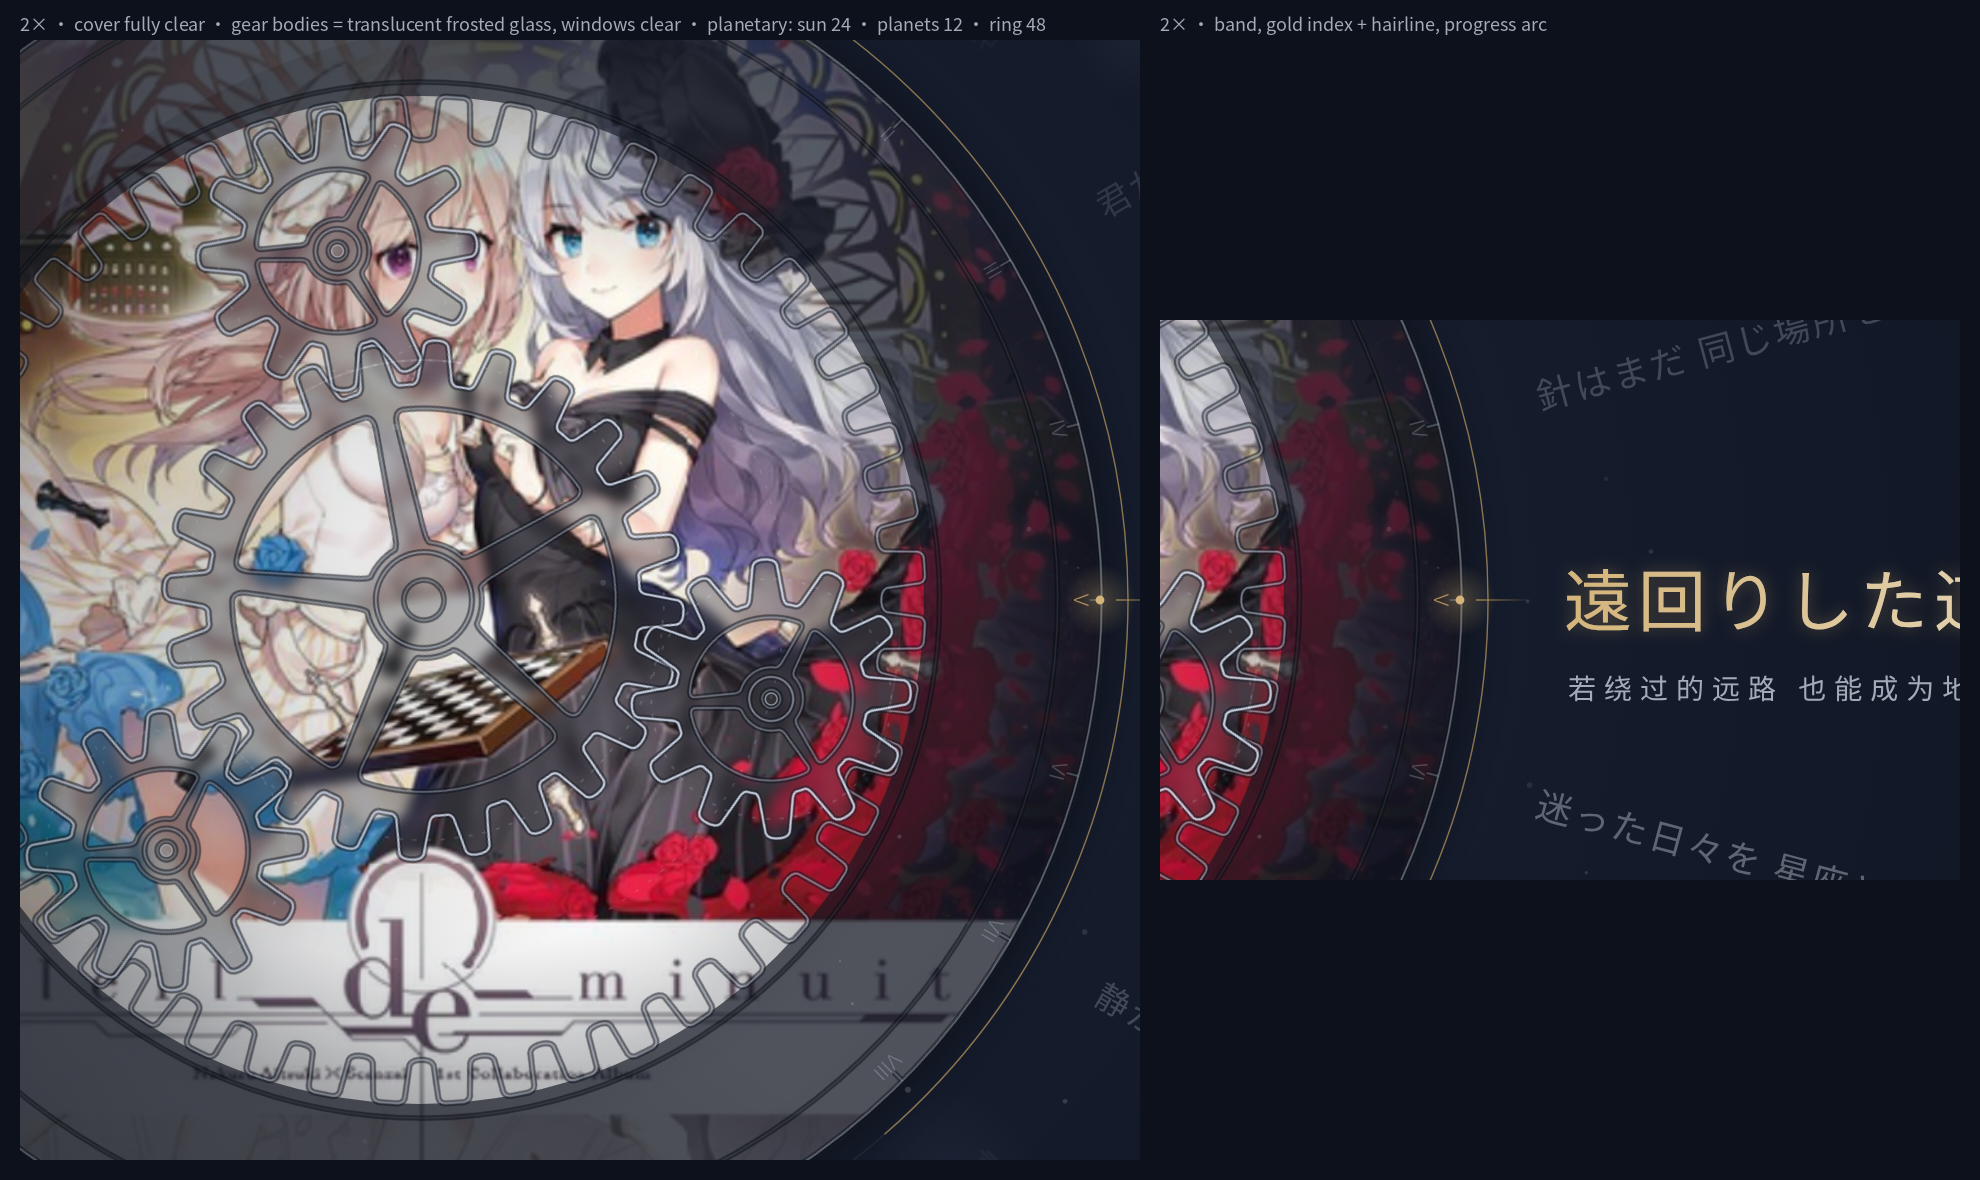
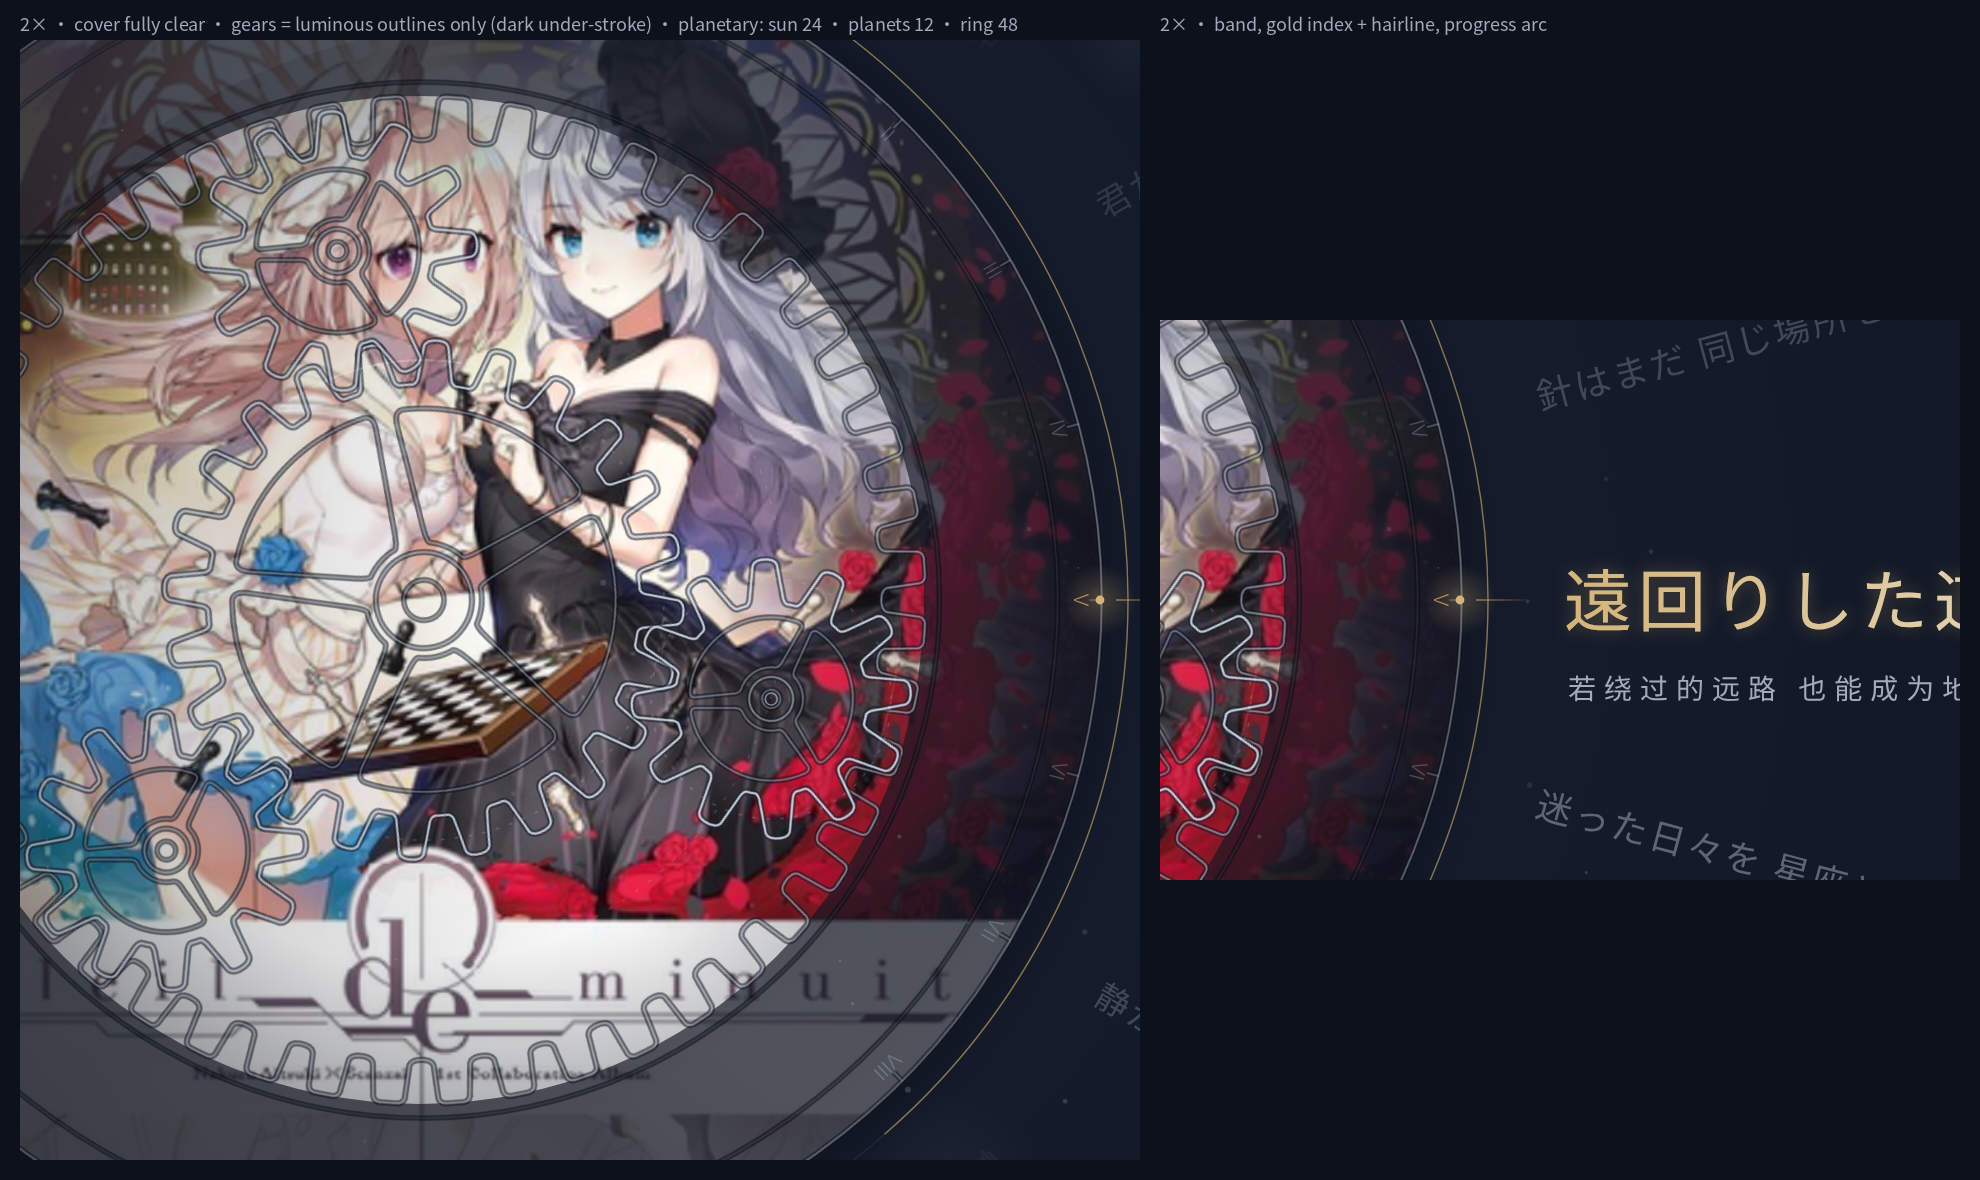
lyric-dial 7b: gears as outlines only (no fill, no gear shadows), cover fully clear

diff --git a/ryn-lyric-dial/concept-7b/index.html b/ryn-lyric-dial/concept-7b/index.html
@@ -21,7 +21,7 @@
    A true planetary set: the engraved Roman-numeral band (6b style) is the ring gear (48 inner teeth),
    three planets (12) mesh with it and with the central sun (24). Carrier = a dotted hairline only; no arms, no bridges.
    Wheels are luminous hairlines (with a dark under-stroke so they read on bright art);
-   the cover is fully clear; the wheels' solid parts are translucent frosted glass, their windows fully clear. Ring rotation = lyric arc. */
+   the cover is fully clear; the wheels are luminous outlines only (no fill). Ring rotation = lyric arc. */
 const TAU = Math.PI * 2, CX = 200, CY = 400;
 const MI = 10, ZRI = 48, RRI = MI * ZRI / 2;          // ring internal: pitch R 240
 const BAND_I = RRI + 1.2 * MI, BAND_O = 340;          // engraved band (6b style) between the inner-teeth root and Ø 680
@@ -92,9 +92,6 @@ function bake(cover) {
     // the engraved band (unchanged): darker so the rim reads as one part
     g.fillStyle = 'rgba(16,21,34,.66)'; g.beginPath(); g.arc(R_COV, R_COV, R_COV, 0, TAU); g.arc(R_COV, R_COV, RRI + 1.2 * MI, 0, TAU, true); g.fill();
     B.veil = c; }
-  { // frosted glass for the gears' solid parts: the cover, blurred, with a ~20% cool-dark tint and a faint sheen
-    const [c, g] = mk(); g.filter = 'blur(6px) saturate(.9) brightness(.9)'; if (cover) g.drawImage(cover, -10, -10, S + 20, S + 20); g.filter = 'none';
-    g.fillStyle = 'rgba(12,17,28,.2)'; g.fillRect(0, 0, S, S); g.fillStyle = `rgba(${INK},.05)`; g.fillRect(0, 0, S, S); B.frost = c; }
   SUN.def = wheelDef(SUN); B.sun = bakeWheel(SUN.def); PLANET.def = wheelDef(PLANET); B.planet = bakeWheel(PLANET.def);
   { // ring = engraved band (thin concentric rings + one quiet tick per lyric step) with the drive teeth on its inner edge
     const inner = toPath(teeth(ZRI, RRI, MI, true)), ticks = new Path2D();
@@ -131,16 +128,9 @@ boot(({ctx, cover}, t, s) => {
 
   for (const [bx, by, br] of BOKEH) { const g = ctx.createRadialGradient(bx - px * 2, by - py * 2, 0, bx - px * 2, by - py * 2, br); g.addColorStop(0, 'rgba(170,190,230,.05)'); g.addColorStop(1, 'rgba(170,190,230,0)'); ctx.fillStyle = g; ctx.beginPath(); ctx.arc(bx - px * 2, by - py * 2, br, 0, TAU); ctx.fill(); }
 
-  // cover clear; gear bodies are frosted glass (windows stay fully clear)
+  // cover fully clear; gears are outlines only (no fill, no tint, no blur)
   ctx.save(); ctx.shadowColor = 'rgba(0,0,0,.55)'; ctx.shadowBlur = 60; ctx.fillStyle = '#0d121c'; ctx.beginPath(); ctx.arc(CX, CY, R_COV, 0, TAU); ctx.fill(); ctx.restore();
   ctx.drawImage(B.veil, CX - R_COV, CY - R_COV, 2 * R_COV, 2 * R_COV);
-  { const S = 2 * R_COV, mc = B.mask; if (mc.width !== Math.round(S * dpr)) mc.width = mc.height = Math.round(S * dpr);
-    const g = mc.getContext('2d'); g.setTransform(1, 0, 0, 1, 0, 0); g.clearRect(0, 0, mc.width, mc.height); g.setTransform(dpr, 0, 0, dpr, 0, 0);
-    g.fillStyle = '#fff';
-    for (const w of W) { g.save(); g.translate(w.x - CX + R_COV + px * w.d, w.y - CY + R_COV + py * w.d); g.rotate(w.th); g.fill(w.def.body);
-      g.globalCompositeOperation = 'destination-out'; for (const p of w.def.wins) g.fill(p); g.globalCompositeOperation = 'source-over'; g.restore(); }
-    g.globalCompositeOperation = 'source-in'; g.setTransform(1, 0, 0, 1, 0, 0); g.drawImage(B.frost, 0, 0, mc.width, mc.height); g.globalCompositeOperation = 'source-over';
-    ctx.drawImage(mc, CX - R_COV, CY - R_COV, S, S); }
   { ctx.save(); ctx.beginPath(); ctx.arc(CX, CY, R_COV, 0, TAU); ctx.clip(); ctx.globalCompositeOperation = 'screen';
     const u = mod(t / 11, 1), x0 = CX - 560 + u * 1120, sw = ctx.createLinearGradient(x0 - 150, CY - 320, x0 + 150, CY + 320);
     sw.addColorStop(0, 'rgba(200,214,240,0)'); sw.addColorStop(.5, 'rgba(200,214,240,.06)'); sw.addColorStop(1, 'rgba(200,214,240,0)');
@@ -148,8 +138,7 @@ boot(({ctx, cover}, t, s) => {
 
   // shadows, then the wheels
   const O = [3, 5];
-  put(ctx, B.ringSh, CX + O[0] * .5, CY + O[1] * .5, thR, .14);
-  for (const w of W) put(ctx, B[w.tex + 'Sh'], w.x + O[0] * w.d, w.y + O[1] * w.d, w.th, .14);
+  put(ctx, B.ringSh, CX + O[0] * .5, CY + O[1] * .5, thR, .06);   // barely-there band shadow; sun/planets cast none
   put(ctx, B.ring, CX + px * dep.ring, CY + py * dep.ring, thR);
   // Roman numerals engraved on the band, riding with the ring (24 slots = two turns of I–XII), current one gold
   ctx.font = `300 10px ${FONT_UI}`; ctx.textAlign = 'center'; ctx.textBaseline = 'middle';

diff --git a/ryn-lyric-dial/gallery.html b/ryn-lyric-dial/gallery.html
@@ -17,5 +17,5 @@ a.card img{display:block;width:100%;aspect-ratio:16/10;object-fit:cover}
 <a class="card" href="concept-3/index.html"><img src="shots/3.png"><div class="meta"><div class="n">CONCEPT 03</div><div class="t">仪表 · Gauge</div><div class="d">底部半圆模拟表盘，歌词沿弧排成刻度标签，指针带回弹扫向当前行，上方大字显示。</div><div class="g">Godot: 刻度烘焙一次（静态 _draw），每帧只重画指针 + 两行大字；Tween TRANS_BACK。</div></div></a>
 <a class="card" href="concept-4/index.html"><img src="shots/4.png"><div class="meta"><div class="n">CONCEPT 04</div><div class="t">八音盒滚筒 · Music-box Drum</div><div class="d">横置的透视滚筒印着歌词，当前行在正面平展，其余行随曲面压缩远去；左侧封面铭牌。</div><div class="g">Godot: draw_set_transform(scale=(sx,cosφ)) 逐行绘制 + 圆柱明暗 shader 或渐变纹理。</div></div></a>
 <a class="card" href="concept-5/index.html"><img src="shots/5.png"><div class="meta"><div class="n">CONCEPT 05</div><div class="t">星轨 · Orbit</div><div class="d">封面为中心天体，歌词沿倾斜椭圆轨道运行，抵达近日点时放大落下；外圈波形环随音频起伏。</div><div class="g">Godot: 轨道点参数方程 + z 排序（后半先画）；波形环用 AudioEffectSpectrumAnalyzer + draw_multiline。</div></div></a>
-<a class="card" href="concept-7b/index.html"><img src="shots/7b.png"><div class="meta"><div class="n">CONCEPT 06 · GEAR (7b)</div><div class="t">光轮 · 行星齿轮 Luminous Planetary</div><div class="d">大表盘偏左、部分出画。外圈是 6b 的罗马数字刻度环（细同心刻线、I–XII 随歌曲转动，当前数字金色），其内缘的 48 个粗齿就是行星齿轮组的齿圈。中心太阳轮（24 齿）压在正立的封面上，三只行星轮（12 齿）同时与太阳轮和齿圈啮合；行星架只有一条穿过行星轮中心的点状细线。封面完整清晰、接近原亮度；齿轮实体部分（轮缘、辐条、轮毂）为半透明磨砂玻璃，窗口完全通透，轮廓为带暗描边的发光细线。光线安静，无闪光；右侧歌词沿同心弧，当前行卡拉OK式由金到白点亮。</div><div class="g">Godot: 齿圈/太阳轮/行星轮各一张细线贴图 + 阴影贴图，按 Willis 公式算角度，每帧只改 rotation 和行星位置；磨砂齿轮用 SubViewport 遮罩 + 封面模糊 shader 混合。<a href="shots/7b-detail.png" style="color:#b8955a">2× 细节图</a> · <a href="shots/7b-vs-ref.png" style="color:#b8955a">与参考对比</a></div></div></a> · <a href="shots/7b-vs-ref.png" style="color:#b8955a">与参考对比</a></div></div></a>
+<a class="card" href="concept-7b/index.html"><img src="shots/7b.png"><div class="meta"><div class="n">CONCEPT 06 · GEAR (7b)</div><div class="t">光轮 · 行星齿轮 Luminous Planetary</div><div class="d">大表盘偏左、部分出画。外圈是 6b 的罗马数字刻度环（细同心刻线、I–XII 随歌曲转动，当前数字金色），其内缘的 48 个粗齿就是行星齿轮组的齿圈。中心太阳轮（24 齿）压在正立的封面上，三只行星轮（12 齿）同时与太阳轮和齿圈啮合；行星架只有一条穿过行星轮中心的点状细线。封面完整清晰、接近原亮度；齿轮只保留带暗描边的发光细线轮廓，没有任何填充。光线安静，无闪光；右侧歌词沿同心弧，当前行卡拉OK式由金到白点亮。</div><div class="g">Godot: 齿圈/太阳轮/行星轮各一张细线贴图 + 阴影贴图，按 Willis 公式算角度，每帧只改 rotation 和行星位置；封面只需圆形遮罩。<a href="shots/7b-detail.png" style="color:#b8955a">2× 细节图</a> · <a href="shots/7b-vs-ref.png" style="color:#b8955a">与参考对比</a></div></div></a> · <a href="shots/7b-vs-ref.png" style="color:#b8955a">与参考对比</a></div></div></a>
 </div></body></html>

diff --git a/ryn-lyric-dial/README.md b/ryn-lyric-dial/README.md
@@ -16,7 +16,7 @@ In Godot: compute `p` in `_process`, call `queue_redraw()`, map in `_draw()`.
 | 3 | 仪表 Gauge | Dial face, progress ticks and radial labels redrawn only on line change (separate CanvasItem); needle = `Sprite2D`/`Polygon2D` with `rotation` driven by Tween `TRANS_BACK` (+ tiny jitter from `AudioEffectSpectrumAnalyzer`). Big line = 2 `Label`s cross-faded via `modulate.a`. | Per frame: 1 transform + 2 labels. Cheapest. |
 | 4 | 八音盒滚筒 Drum | For each visible line: `draw_set_transform(Vector2(cx, cy+R*sin φ), 0, Vector2(sx, cos φ))` then `draw_string`. Barrel silhouette = `draw_colored_polygon`; cylinder shading = gradient texture or a tiny CanvasItem shader on a ColorRect (`cos` shading on UV.y). Ribs = `draw_line` loop. | ~7 lines × 2 strings + ~40 lines + polygon. Cheap. Alternative: real 3D `CylinderMesh` + `SubViewport` text texture (heavier, not needed). |
 | 5 | 星轨 Orbit | Orbit points from parametric ellipse; sort by z (back half drawn before the cover node, front half after — two CanvasItems or `z_index`). Labels: `draw_string` with font size lerp (use a few cached sizes or `scale` transform to avoid font re-raster). Waveform ring: 120 radial segments via one `draw_multiline` fed by `AudioEffectSpectrumAnalyzerInstance.get_magnitude_for_frequency_range`. | 12 strings + 1 multiline (120 segs) + 3 ellipse polylines. Cheap. |
-| 7b | 光轮 II Luminous Planetary | Large dial (Ø680 band, centre x=200, partly off-screen). True planetary set: ring = the 6b engraved band (thin concentric rings, 24 quiet ticks, small Roman numerals I–XII, current numeral gold) with 48 coarse inner teeth (m 10, R 240) on its inner edge; sun Zs 24 (R 120) at the dial centre over the upright cover; three planets Zp 12 (R 60) on a carrier of radius 180. Zr = Zs + 2·Zp and (Zs+Zr)/3 = 24 → equal spacing meshes. Carrier is only a dotted hairline through the planet centres (no arms/bridges). Kinematics: ring θR = −p·15° (drives the lyric arc; 12 lines = 180° = 24 teeth → seamless), carrier θC drifts slowly, sun by Willis θS = θC(1+Zr/Zs) − (Zr/Zs)θR + π·Zp/Zs (phase so all teeth mesh), planets via external mesh with the sun `θp = ψ + π − π/Zp + (Zs/Zp)(ψ − θS)`. Cover fully clear at near-full brightness (only a light edge vignette); the gears' solid parts (rims, spokes, hubs) are translucent frosted glass (blurred cover + ~20% cool-dark tint), windows fully clear. Lines: dark under-stroke + faint glow + hairline. Very soft, faint shadows, small parallax, calm faint glint on the sun pitch circle (no mesh flashes), gold progress arc + gold index point + hairline at 3 o'clock, karaoke gold→white lyric arc. **Godot:** ring/sun/planet line-art + shadow textures baked once, per frame set 5 `rotation`s + 3 planet positions; numerals `draw_string` on the band (or baked into the ring texture with a separate gold label for the current one); frosted gear bodies = SubViewport mask (rotated body polygons minus windows) → cover shader `mix(cover, blurred_cover*0.8, mask.r)` (or BackBufferCopy + blur shader); karaoke shader with `reveal` uniform. | ~9 sprites + 1 SubViewport + 2 small shaders; cheap. |
+| 7b | 光轮 II Luminous Planetary | Large dial (Ø680 band, centre x=200, partly off-screen). True planetary set: ring = the 6b engraved band (thin concentric rings, 24 quiet ticks, small Roman numerals I–XII, current numeral gold) with 48 coarse inner teeth (m 10, R 240) on its inner edge; sun Zs 24 (R 120) at the dial centre over the upright cover; three planets Zp 12 (R 60) on a carrier of radius 180. Zr = Zs + 2·Zp and (Zs+Zr)/3 = 24 → equal spacing meshes. Carrier is only a dotted hairline through the planet centres (no arms/bridges). Kinematics: ring θR = −p·15° (drives the lyric arc; 12 lines = 180° = 24 teeth → seamless), carrier θC drifts slowly, sun by Willis θS = θC(1+Zr/Zs) − (Zr/Zs)θR + π·Zp/Zs (phase so all teeth mesh), planets via external mesh with the sun `θp = ψ + π − π/Zp + (Zs/Zp)(ψ − θS)`. Cover fully clear at near-full brightness (only a light edge vignette); gears are luminous outlines only (no fill, no tint, no blur). Lines: dark under-stroke + faint glow + hairline. No gear shadows (only a barely visible band shadow), small parallax, calm faint glint on the sun pitch circle (no mesh flashes), gold progress arc + gold index point + hairline at 3 o'clock, karaoke gold→white lyric arc. **Godot:** ring/sun/planet line-art + shadow textures baked once, per frame set 5 `rotation`s + 3 planet positions; numerals `draw_string` on the band (or baked into the ring texture with a separate gold label for the current one); cover is a plain TextureRect with a circle-mask shader; karaoke shader with `reveal` uniform. | ~9 sprites + 1 SubViewport + 2 small shaders; cheap. |
 
 Notes: avoid changing font size every frame in Godot (each new size rasterizes glyphs) — prefer drawing at
 the max size and scaling via `draw_set_transform`, or snap to a few sizes. Use MSDF fonts for crisp rotated/scaled text.
